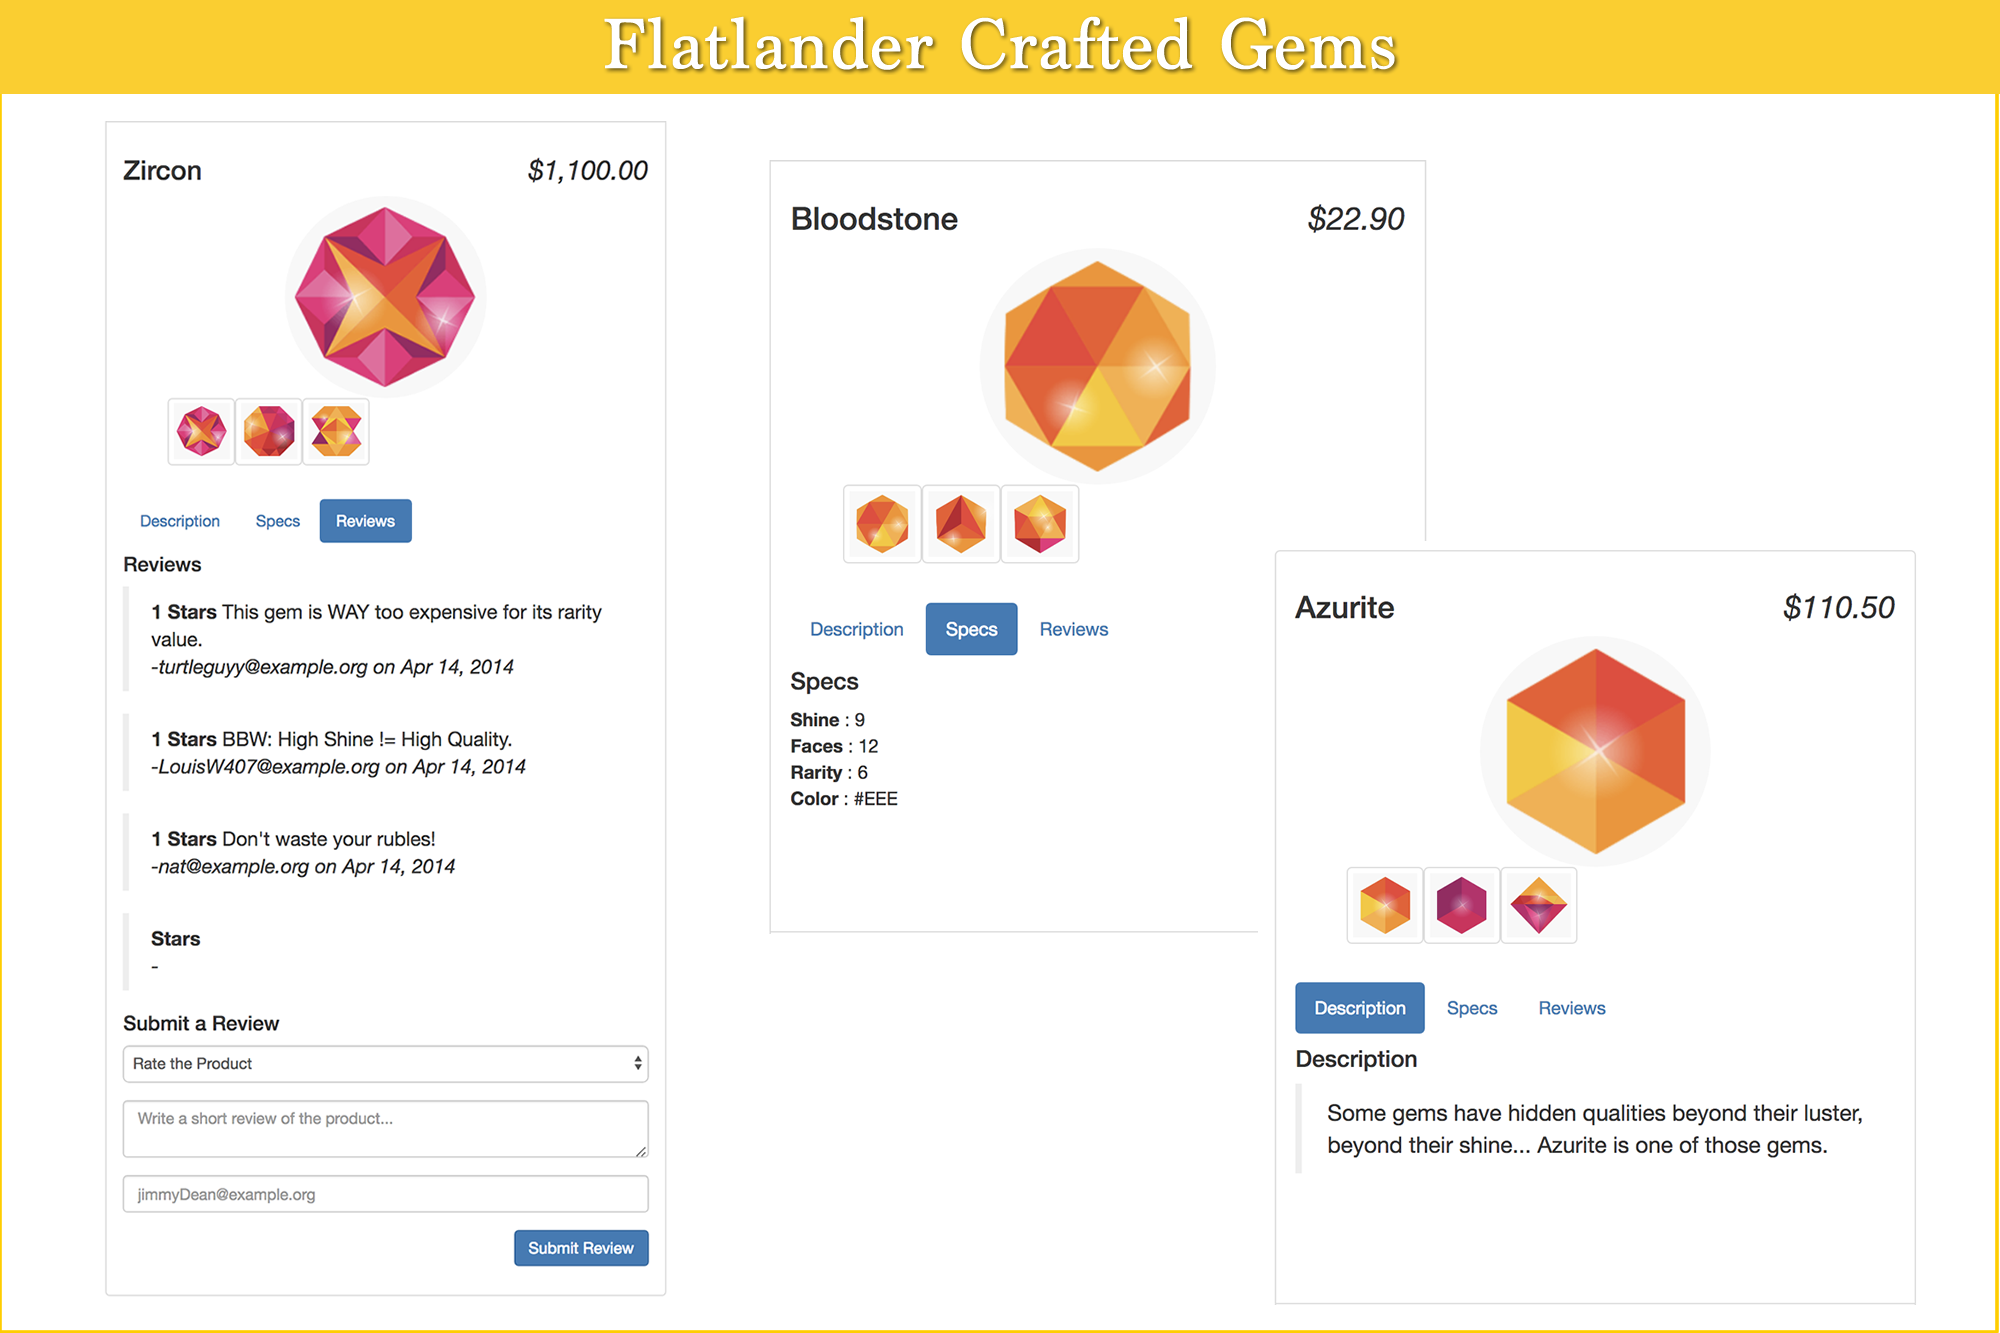
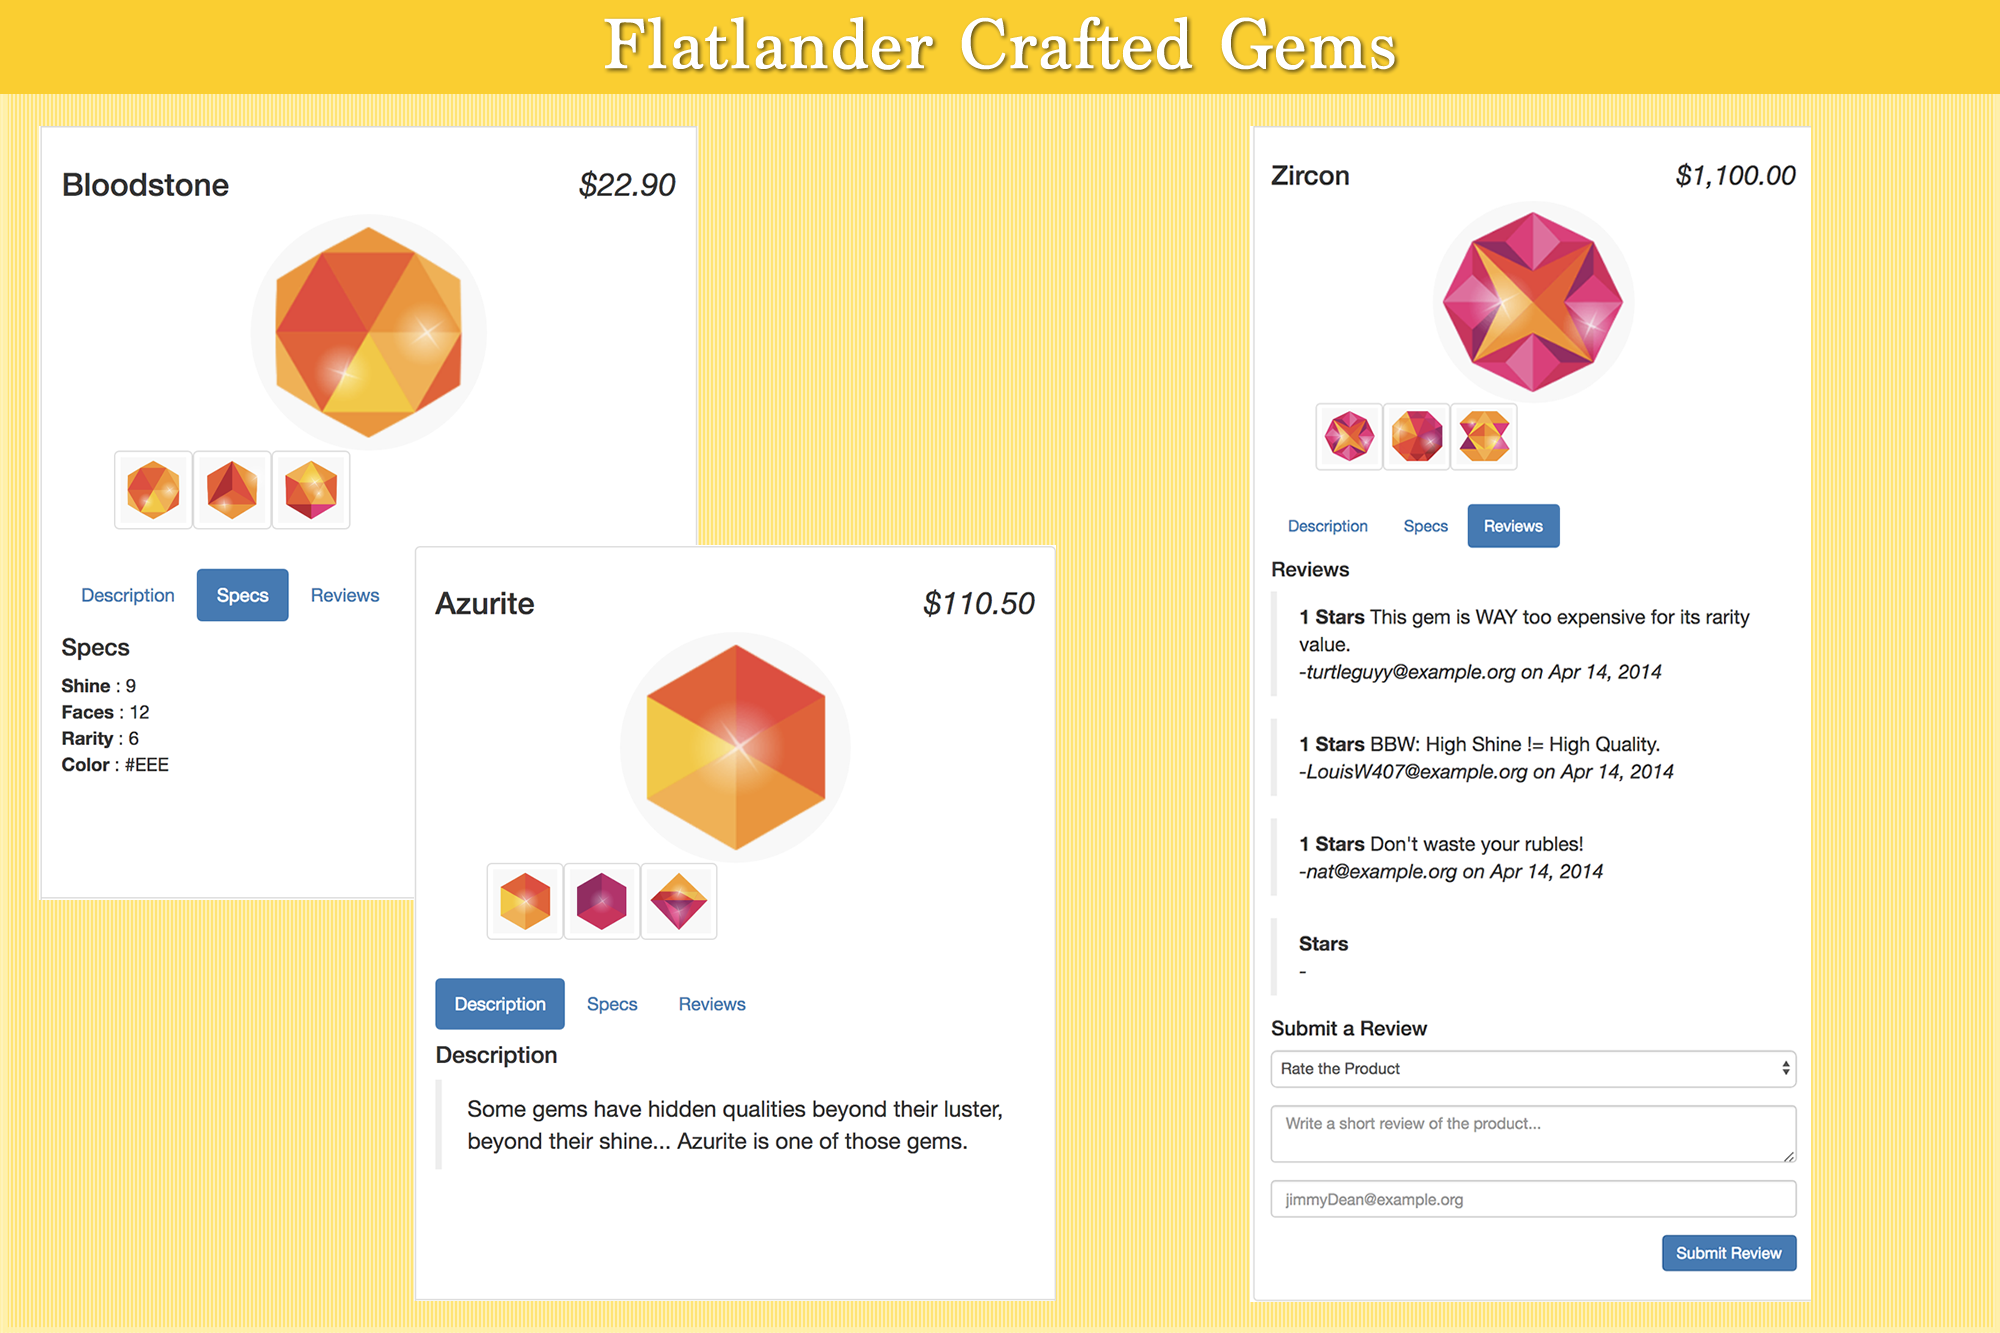
Added Two More Projects to Site

diff --git a/index.html b/index.html
@@ -57,42 +57,93 @@
           <img src="assets/images/tenders.png">
           <div class="overlay">
               <div class="image-text-1">
-                <a href="https://michaelguillen7.github.io/project_one/">View Live Site</a>
+                <a href="https://michaelguillen7.github.io/project_one/">Live Site</a>
               </div>
               <div class="image-text-2">
-                  <a href="https://github.com/michaelguillen7/project_one">Visit the GitHub Repo</a>
+                  <a href="https://github.com/michaelguillen7/project_one">GitHub Repo</a>
                 </div>
         </div>
     </div>
   
     <div class="six columns portfolio img-container">
-        <img src="assets/images/flatlander-gems.png">
-        <div class="overlay">
-            <div class="image-text-1">
-              <a href="https://rawgit.com/selmadelgado/AngularJS-Store/master/index.html">View Live Site</a>
-            </div>
-            <div class="image-text-2">
-                <a href="https://github.com/selmadelgado/AngularJS-Store">Visit the GitHub Repo</a>
+      <img src="assets/images/steve-jobs-trivia-game.png">
+          <div class="overlay">
+              <div class="image-text-1">
+                <a href="
+                https://selmadelgado.github.io/Steve-Jobs-Trivia-Game/">Live Site</a>
               </div>
+              <div class="image-text-2">
+                  <a href="https://github.com/selmadelgado/Steve-Jobs-Trivia-Game">GitHub Repo</a>
+                </div>
+        </div>
+    </div>
+
+  </div>
+
+
+  <div class="row">
+    
+    <div class="six columns portfolio img-container">
+      <img src="assets/images/js-rocket.png">
+          <div class="overlay">
+              <div class="image-text-1">
+                <a href="
+                https://selmadelgado.github.io/js-rocket/rocket.html">Live Site</a>
+              </div>
+              <div class="image-text-2">
+                  <a href="https://github.com/selmadelgado/js-rocket">GitHub Repo</a>
+                </div>
+        </div>
+    </div>
+  
+    <div class="six columns portfolio img-container">
+      <img src="assets/images/flatlander-gems.png">
+      <div class="overlay">
+          <div class="image-text-1">
+            <a href="https://rawgit.com/selmadelgado/AngularJS-Store/master/index.html">Live Site</a>
+          </div>
+          <div class="image-text-2">
+              <a href="https://github.com/selmadelgado/AngularJS-Store">GitHub Repo</a>
+            </div>
       </div>
-  </div>
+    </div>
 
   </div>
-
 
 
 
   <div class="row">
-  
-    <div class="six columns portfolio">
-      <img src="assets/images/steve-jobs-trivia-game.png">
+
+    <div class="six columns portfolio img-container">
+      <img src="assets/images/dice-game.png">
+        <div class="overlay">
+            <div class="image-text-1">
+              <a href="https://selmadelgado.github.io/Dice-Game/">Live Site</a>
+            </div>
+            <div class="image-text-2">
+                <a href="https://github.com/selmadelgado/Dice-Game">GitHub Repo</a>
+              </div>
+      </div>
+  </div>
+
+    <div class="six columns portfolio img-container">
+      <img src="assets/images/train-tracker.png">
+        <div class="overlay">
+            <div class="image-text-1">
+              <a href="
+              https://selmadelgado.github.io/Steve-Jobs-Trivia-Game/">Live Site</a>
+            </div>
+            <div class="image-text-2">
+                <a href="https://github.com/selmadelgado/Steve-Jobs-Trivia-Game">GitHub Repo</a>
+              </div>
+       </div>
     </div>
 
-    <div class="six columns portfolio">
-      <img src="assets/images/dice-game.png">
-    </div>
-  
   </div>
+
+
+
+
 
   
 </div> <!-- End Container -->
@@ -114,10 +165,11 @@
   <div class="container">
     <div class="row twelve columns">
     <ul class="social">
-    <li class="facebook"><a href="https://www.facebook.com/selmadelgado"><i class="fa fa-facebook-square fa-lg"></i></a></li>  
+    <li class="github"><a href="https://github.com/selmadelgado"><i class="fa fa-github-square fa-lg"></i></a></li>   
+    <li class="linkedin"><a href="https://www.linkedin.com/in/selmadelgado/"><i class="fa fa-linkedin-square fa-lg"></i></a></li>    
     <li class="twitter"><a href="https://twitter.com/selmadelgado"><i class="fa fa-twitter-square fa-lg"></i></a></li>  
     <li class="instagram"><a href="https://www.instagram.com/selmadelgado/"><i class="fa fa-instagram fa-lg"></i></a></li> 
-    <li class="linkedin"><a href="https://www.linkedin.com/in/selmadelgado/"><i class="fa fa-linkedin-square fa-lg"></i></a></li>   
+     
     </ul>
     </div>
     <div class="row twelve columns">

diff --git a/assets/css/style.css b/assets/css/style.css
@@ -18,6 +18,7 @@
 /* Typography –––––––––––––––––––––––––––––––––––––––––––––––––– */
 body {
   font-family: 'Abel', sans-serif;
+  font-family: 'Google Sans',Roboto,RobotoDraft,Helvetica,Arial,sans-serif;
   font-size: 1.5em;
   color: #000;
 }
@@ -155,7 +156,8 @@ ul.social li a {
   color: #909090; 
 }
 
-ul.social li.facebook a:hover{color: rgb(59, 89, 152);}
+
+ul.social li.github a:hover{color: rgb(18, 163, 173);}
 ul.social li.twitter a:hover{color: rgb(0, 172, 237);}
 ul.social li.instagram a:hover{color: rgb(76, 104, 215);}
 ul.social li.linkedin a:hover{color: rgb(0, 123, 182);}
